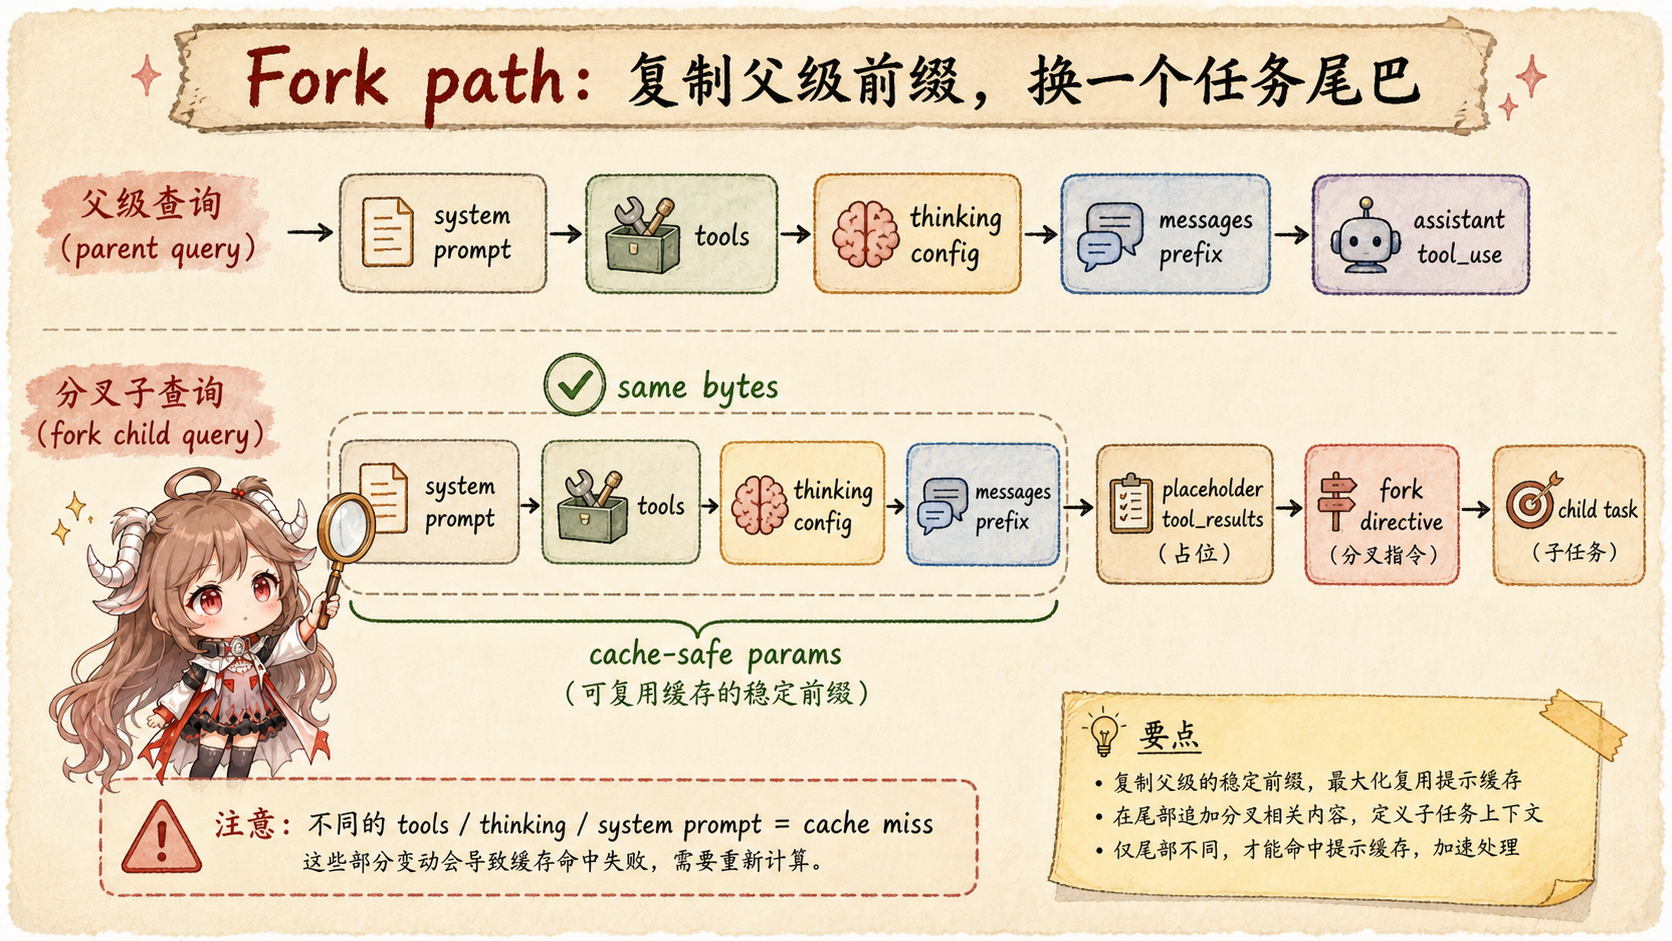
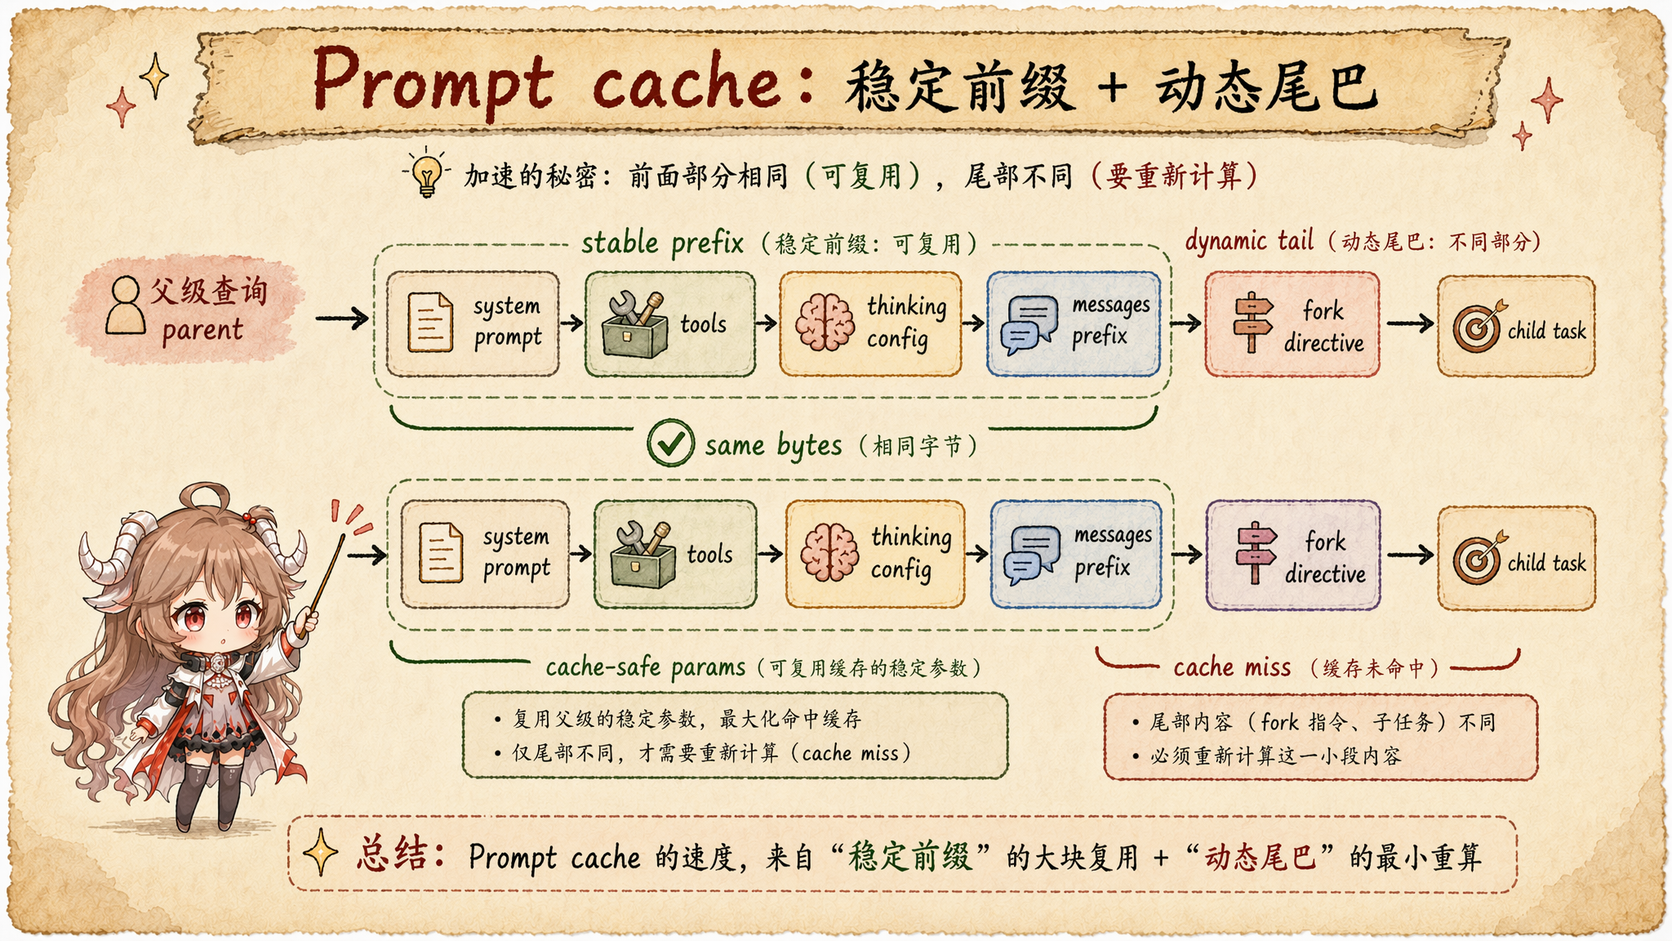
Refresh Claude Code prompt cache figures

diff --git a/claude-code/zh/prompt-cache-performance/index.html b/claude-code/zh/prompt-cache-performance/index.html
@@ -184,8 +184,8 @@
 
             <figure class="figure">
               <img
-                src="../../assets/context-ledger-cover.png"
-                alt="Claude Code runtime view 图，展示 history 和 tools 进入 stable prefix、runtime view、API view、compact 与 resume"
+                src="../../assets/prompt-cache-api-view.png"
+                alt="Prompt cache API view 图，展示 UI transcript、runtime view、API view 和 provider 看到的 stable prefix"
               />
               <figcaption>Prompt cache 命中的是 API view 里的稳定前缀；transcript 和 UI 只是它的上游材料。</figcaption>
             </figure>
@@ -367,8 +367,8 @@ fire-and-forget fork:
 
             <figure class="figure">
               <img
-                src="../../assets/compact-recovery-loop.png"
-                alt="Claude Code compact 恢复循环图，展示 trigger、pre hooks、summary fork、ledger、restore files memory tools 和 next turn"
+                src="../../assets/prompt-cache-microcompact.png"
+                alt="Prompt cache compact 图，展示 full compact 建新边界和 cached microcompact 通过 cache_reference、cache_edits 编辑缓存"
               />
               <figcaption>Compact 会重写运行时边界；cached microcompact 则尽量把删除动作推到 API 层，避免本地历史直接漂移。</figcaption>
             </figure>
@@ -416,8 +416,8 @@ fire-and-forget fork:
 
             <figure class="figure">
               <img
-                src="../../assets/context-surfaces.png"
-                alt="Claude Code UI、transcript、runtime、API view 四列表面图，展示 UI 写入 transcript，runtime projection 后进入 API view"
+                src="../../assets/prompt-cache-replacement-state.png"
+                alt="Prompt cache tool result replacement 图，展示 transcript、ContentReplacementState、runtime projection、API view、resume 和 fork"
               />
               <figcaption>工具结果替换影响的是 runtime projection 和 API view；transcript 还要能支撑 resume 重建同一套替换状态。</figcaption>
             </figure>
@@ -471,8 +471,8 @@ fire-and-forget fork:
 
             <figure class="figure">
               <img
-                src="../../assets/survival-map.png"
-                alt="Claude Code stable、reloaded、triggered 三类上下文进入 compact 后供 next turn 使用的生存地图"
+                src="../../assets/prompt-cache-break-detection.png"
+                alt="Prompt cache break detection 图，展示 PreviousState、cache_read tokens、expected deletion、suspected break 和原因清单"
               />
               <figcaption>Cache break detection 的作用，是把“前缀为什么没活下来”从体感问题变成可归因的请求形状问题。</figcaption>
             </figure>
